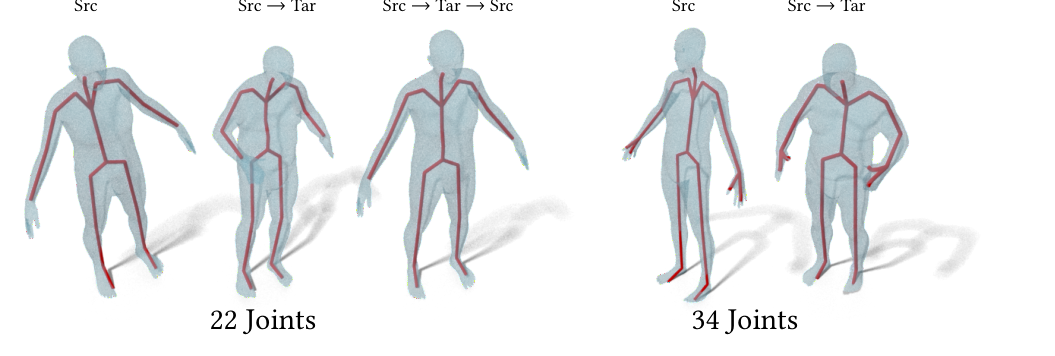
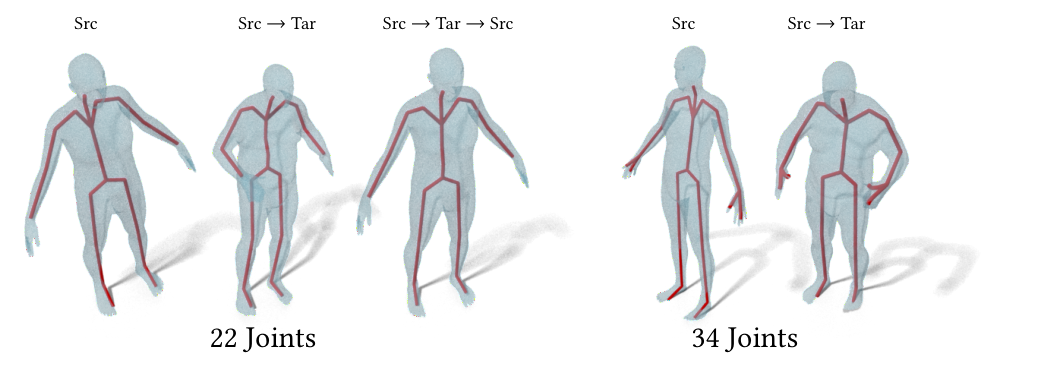
Functional skeleton transfer: full-height labels in the Mixamo figure

diff --git a/Functional-skeleton-transfer/index.html b/Functional-skeleton-transfer/index.html
@@ -84,7 +84,7 @@
     <h2>Results</h2>
     <p>The same regressor works with different skeletons, with clothed and noisy surfaces and across object classes, from humans to animals.</p>
     <figure class="fig-block">
-      <img src="img/mixamo.png" alt="Transfer of Mixamo skeletons with 22 and 34 joints">
+      <img src="img/mixamo.png?v=2" alt="Transfer of Mixamo skeletons with 22 and 34 joints">
       <figcaption>Transfer of two Mixamo skeletons, with 22 joints (left) and 34 joints, including the hands (right). The results are
         coherent and independent of the skeleton.</figcaption>
     </figure>
